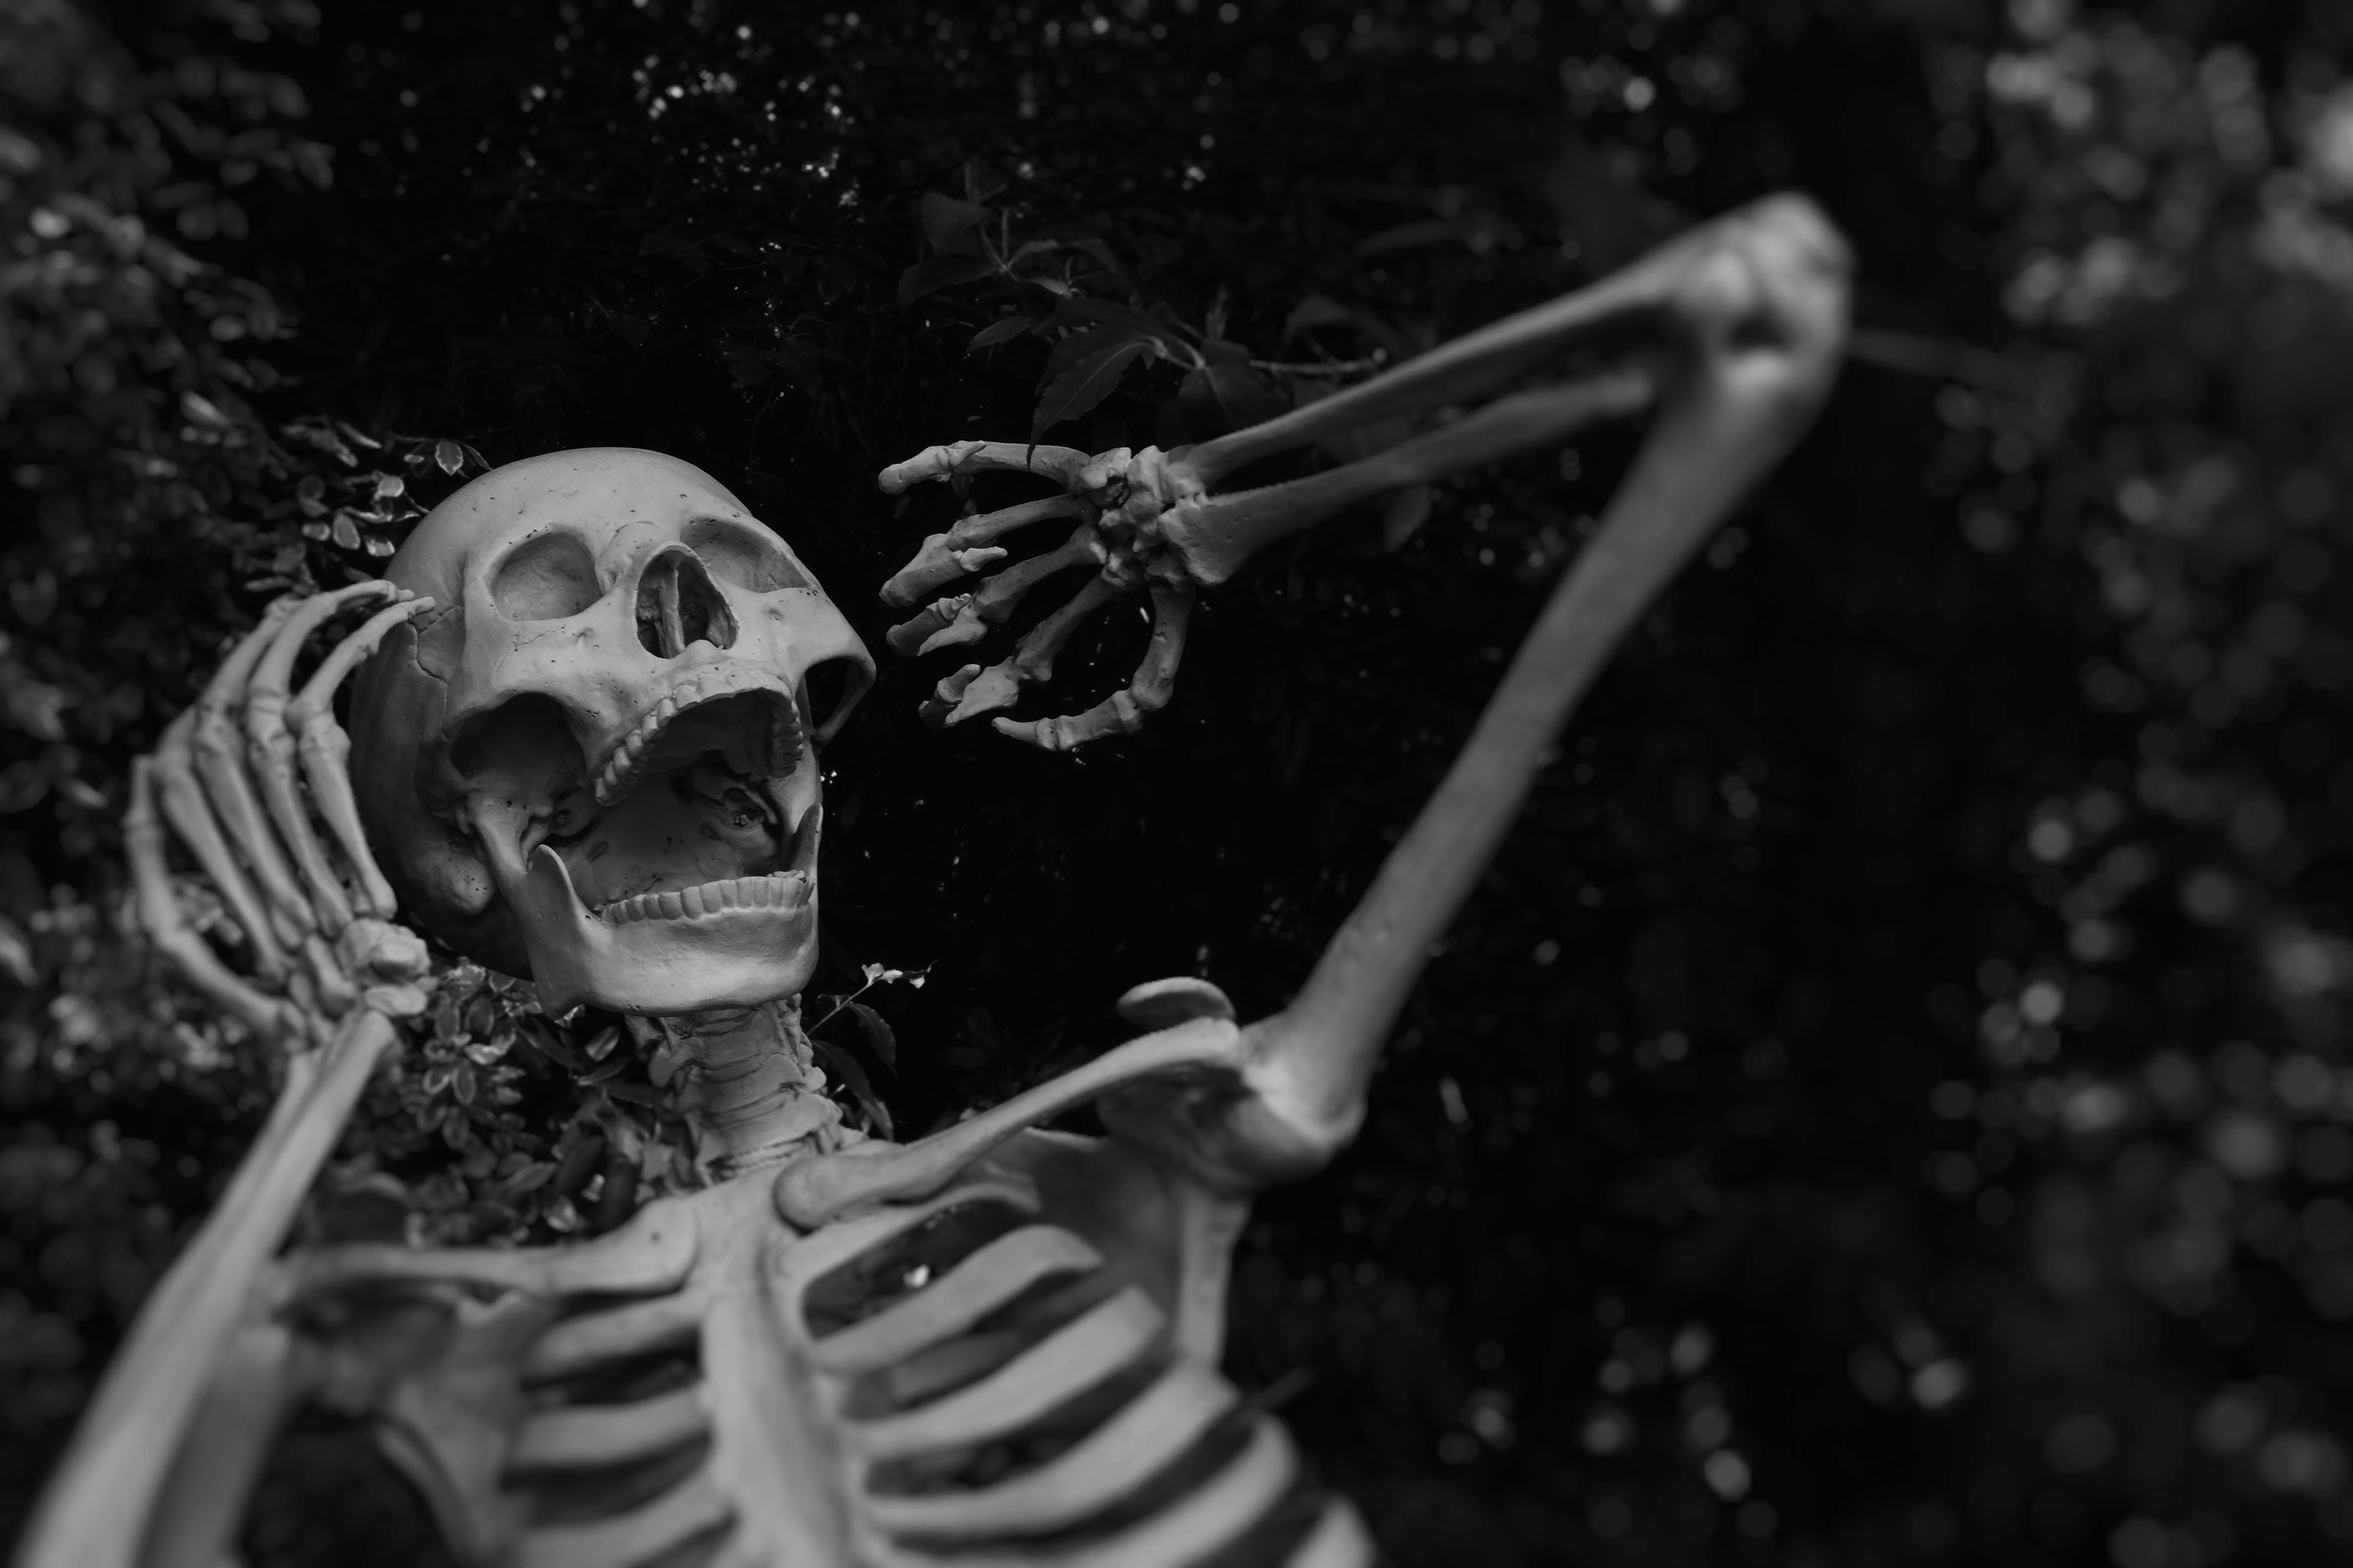
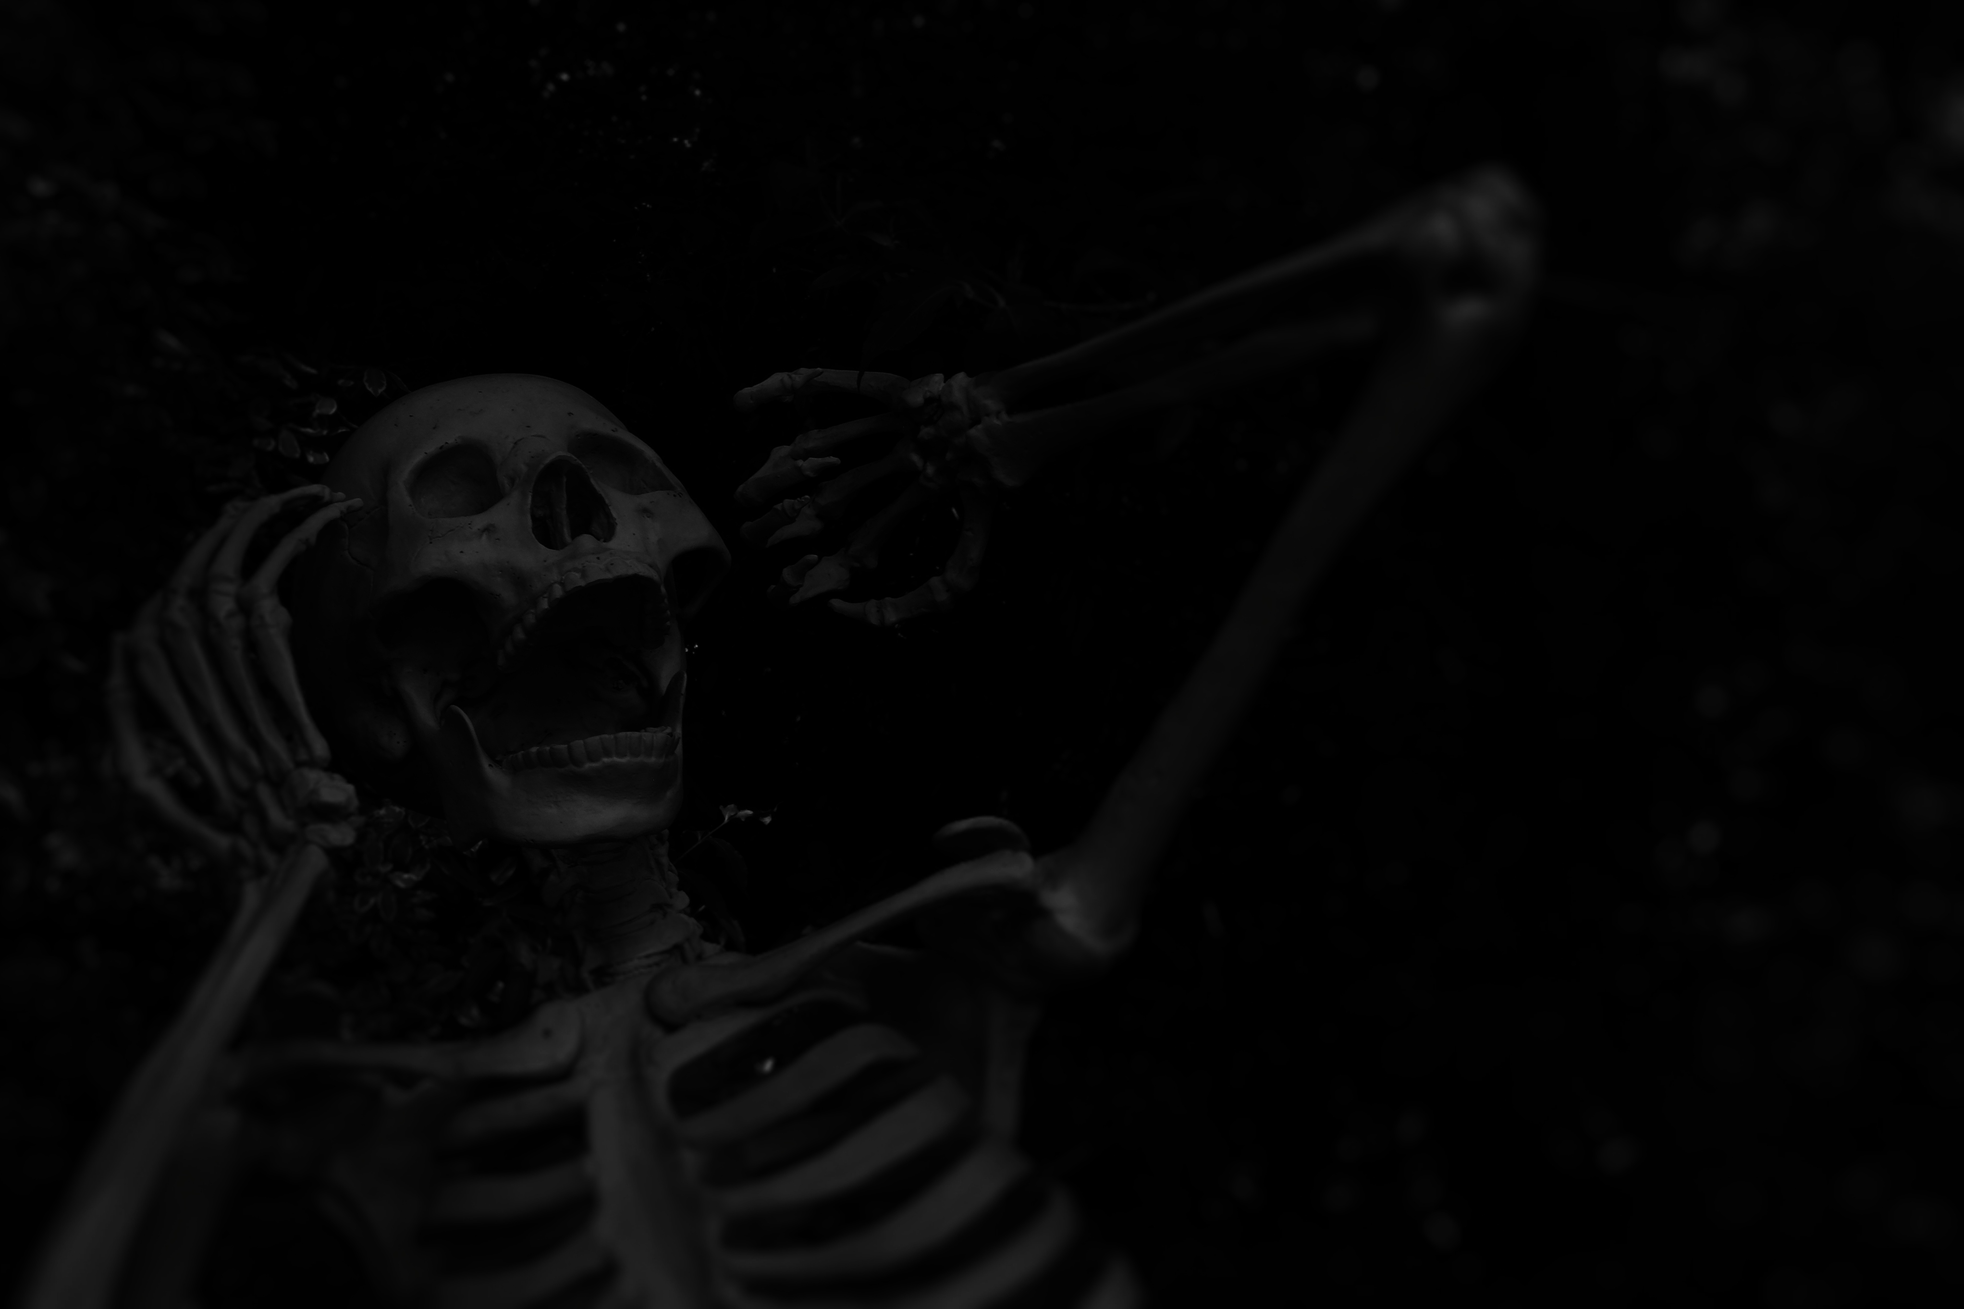
gg

diff --git a/inicio.html b/inicio.html
@@ -1,26 +1,159 @@
 <html lang="en">
+
 <head>
-    <meta charset="UTF-8">
-    <meta name="viewport" content="width=device-width, initial-scale=1.0">
-    <title>Jargolin</title>
-    <link rel="shortcut icon" href="img/cr.png" type="image/x-icon">
-    <link href="https://cdn.jsdelivr.net/npm/bootstrap@5.3.2/dist/css/bootstrap.min.css" rel="stylesheet"
+  <meta charset="UTF-8">
+  <meta name="viewport" content="width=device-width, initial-scale=1.0">
+  <title>Jargolin</title>
+  <link rel="shortcut icon" href="img/cr.png" type="image/x-icon">
+  <link href="https://cdn.jsdelivr.net/npm/bootstrap@5.3.2/dist/css/bootstrap.min.css" rel="stylesheet"
     integrity="sha384-T3c6CoIi6uLrA9TneNEoa7RxnatzjcDSCmG1MXxSR1GAsXEV/Dwwykc2MPK8M2HN" crossorigin="anonymous">
   <script src="https://cdn.jsdelivr.net/npm/bootstrap@5.3.2/dist/js/bootstrap.bundle.min.js"
     integrity="sha384-C6RzsynM9kWDrMNeT87bh95OGNyZPhcTNXj1NW7RuBCsyN/o0jlpcV8Qyq46cDfL"
     crossorigin="anonymous"></script>
   <script src="js/funciones.js"></script>
-    <style>
-        body{
-background: fixed url(img/skull.jpg);
-background-size: cover;
+  <style>
+    .bodyinicio {
+      background: fixed url(img/skull.jpg);
+      background-size: cover;
 
 
-        }
-    </style>
-</head>
-<body>
-    <div class="container"></div>
+    }
+
+    .calavera {
+      margin-top: 15vh;
+      background-image: url(img/jack-removebg-preview.png);
+      background-repeat: no-repeat;
+      background-size: cover;
+      background-position: center;
+      filter: brightness(30%);
+      animation: saltar 1s infinite;
+      transition: all 1s;
+    }
+
+    @keyframes saltar {
+
+      0% {
+        margin-top: 15vh;
+        filter: brightness(100%);
+      }
+
+      10% {
+        filter: brightness(30%);
+      }
+
+      20% {
+        filter: brightness(100%);
+      }
+
+      30% {
+        margin-top: 12vh;
+        filter: brightness(30%);
+      }
+
+      50% {
+        margin-top: 15vh;
+      }
+
+    }
+
+    @keyframes brillo {
+
+      0% {
+
+        filter: brightness(30%);
+      }
+
+      10% {
+        filter: brightness(40%);
+      }
+
+      20% {
+        filter: brightness(60%);
+      }
+
+      30% {
+
+        filter: brightness(70%);
+      }
+
+      50% {
+        filter: brightness(80%);
+      }
+
+      60% {
+        filter: brightness(90%);
+      }
+
+      70% {
+        filter: brightness(100%);
+      }
+
+    }
+
+    @keyframes desvanecido {
+
+0% {
+
+  filter: blur(0px);
+}
+
+10% {
+  filter: blur(10px);
+}
+
+20% {
+  filter: blur(20px);
+}
+
+30% {
+
+  filter: blur(30px);
+}
+40% {
+
+filter: blur(40px);
+}
+50% {
+  filter: blur(50px);
+}
+
+60% {
+  filter: blur(60px);
+}
+
+70% {
+  filter: blur(70px);
+}
+80% {
+  filter: blur(80px);
+}
+90% {
+  filter: blur(90px);
+}
+100%{
+  filter: blur(100px);
+}
+
+}
+
+    .calavera:hover {
+      animation: brillo 1s;
+      filter: brightness(100%);
+      rotate: 20deg;
+      transform: scale(1.1);
+    }
+
     
+
+  </style>
+</head>
+
+<body class="bodyinicio">
+  <div class="container pt-5 mt-5">
+
+    <div class="container  h-50 w-50 calavera"></div>
+  </div>
+
 </body>
+
 </html>
